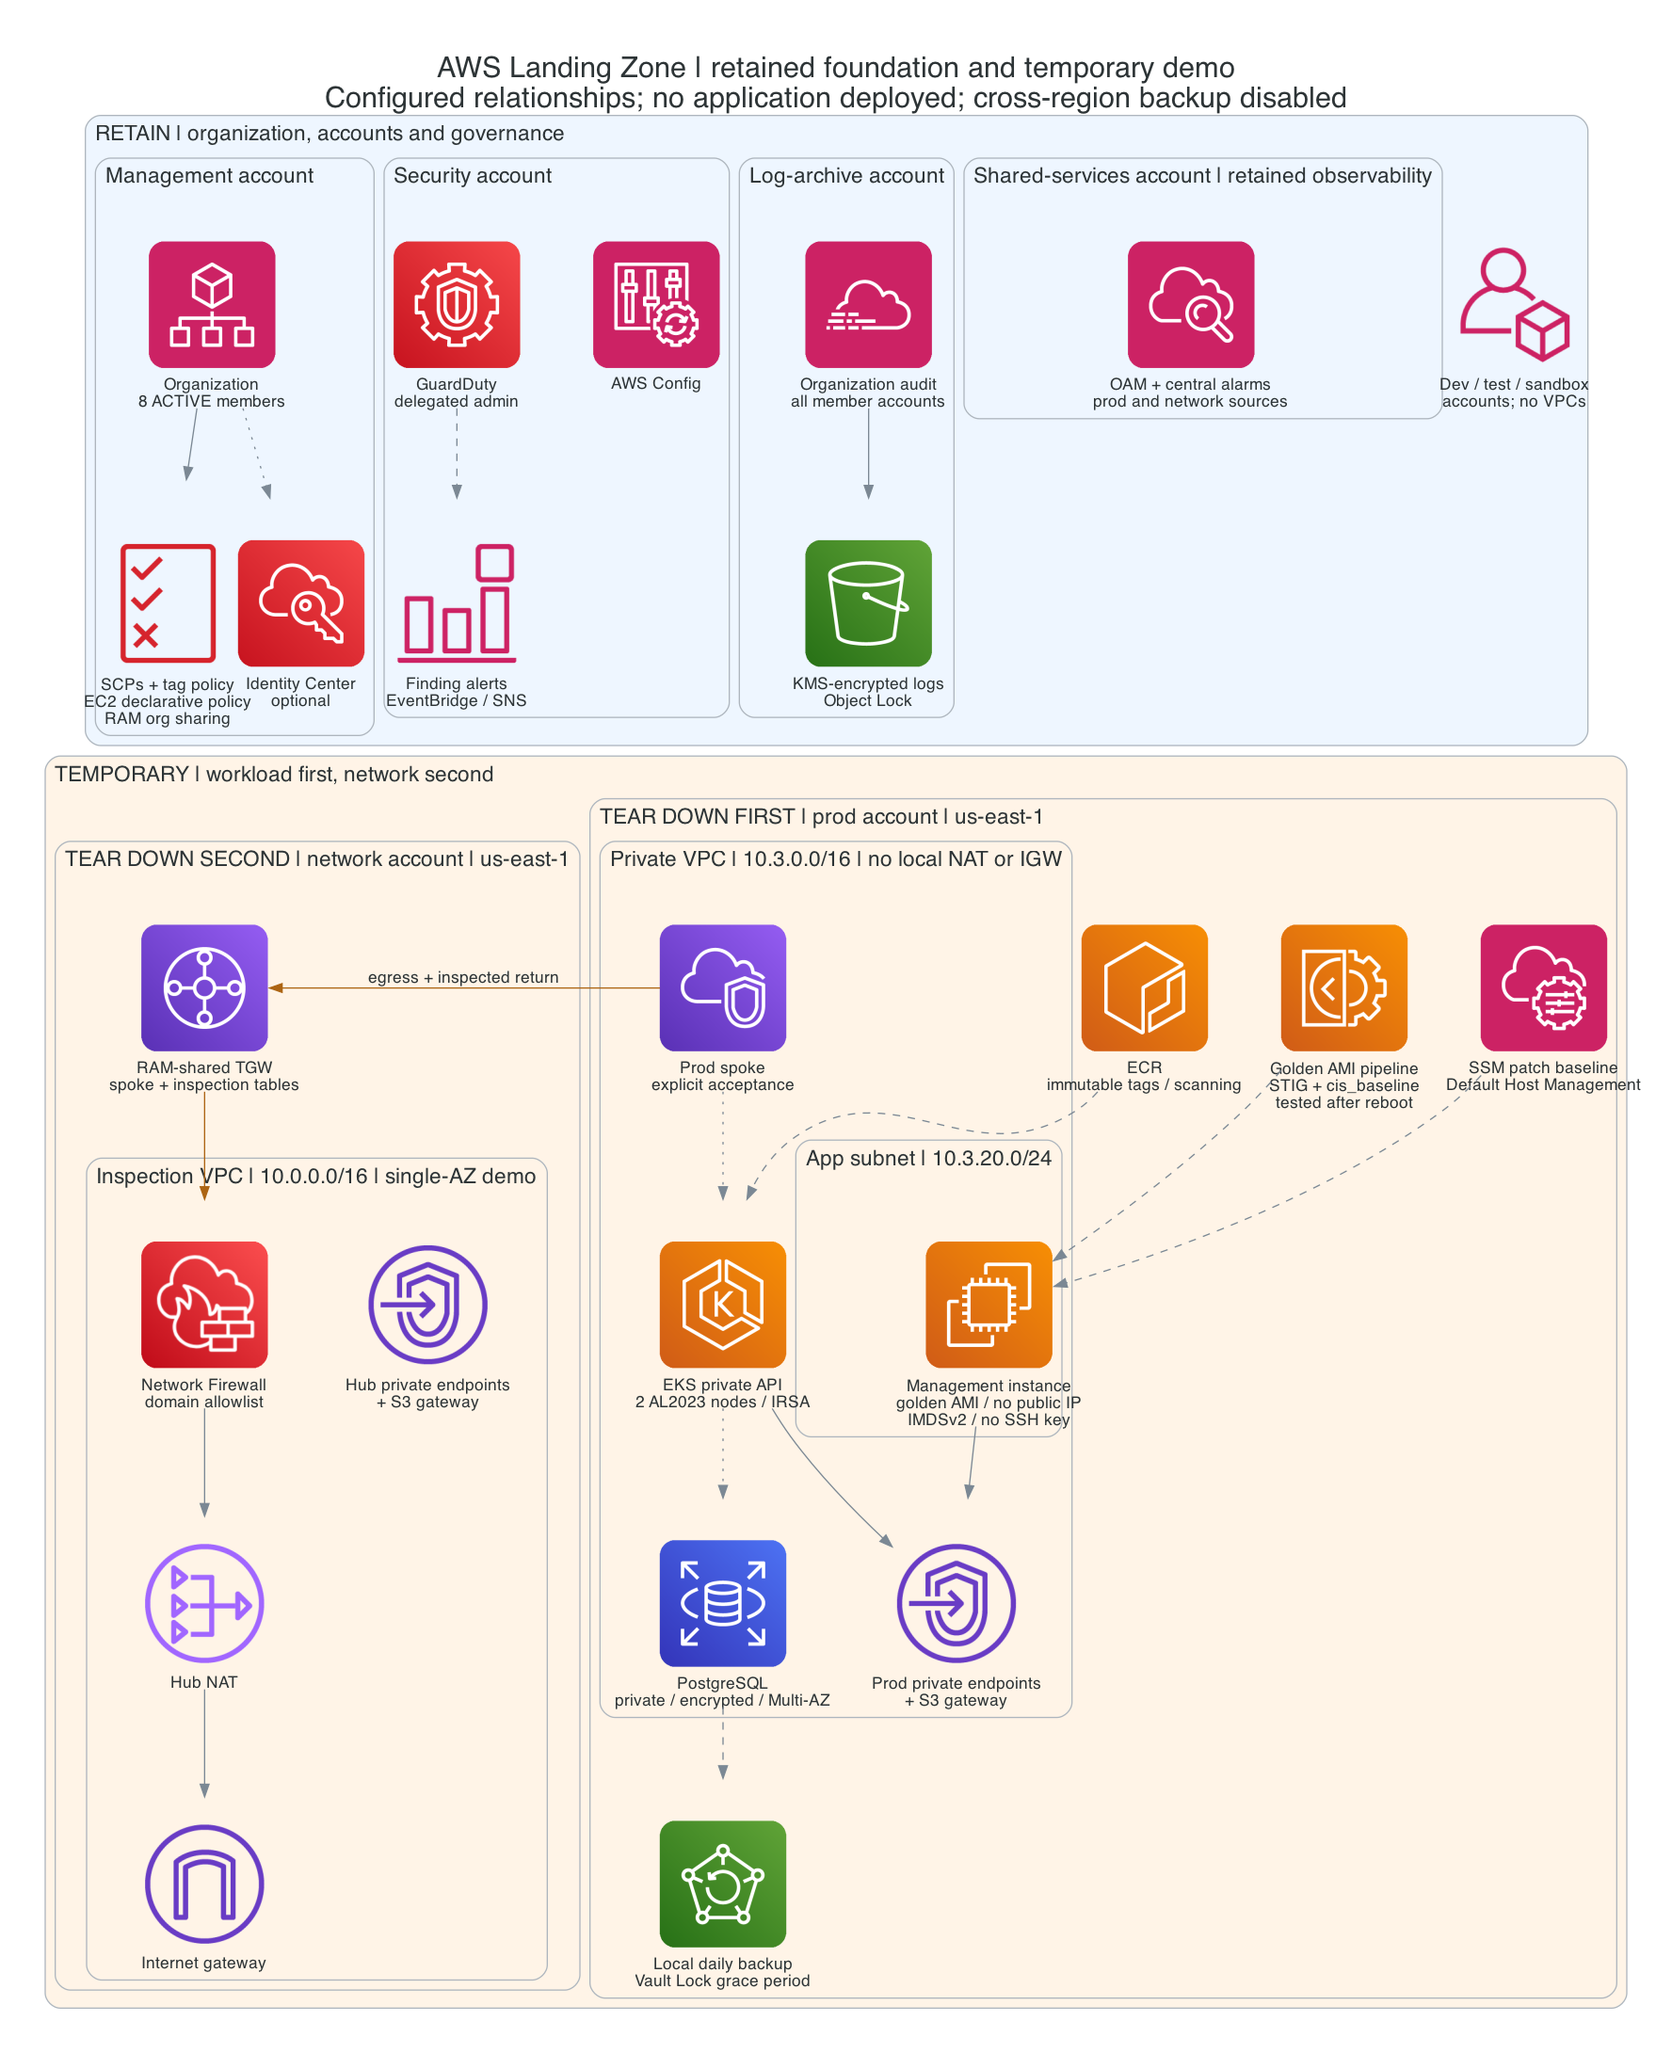
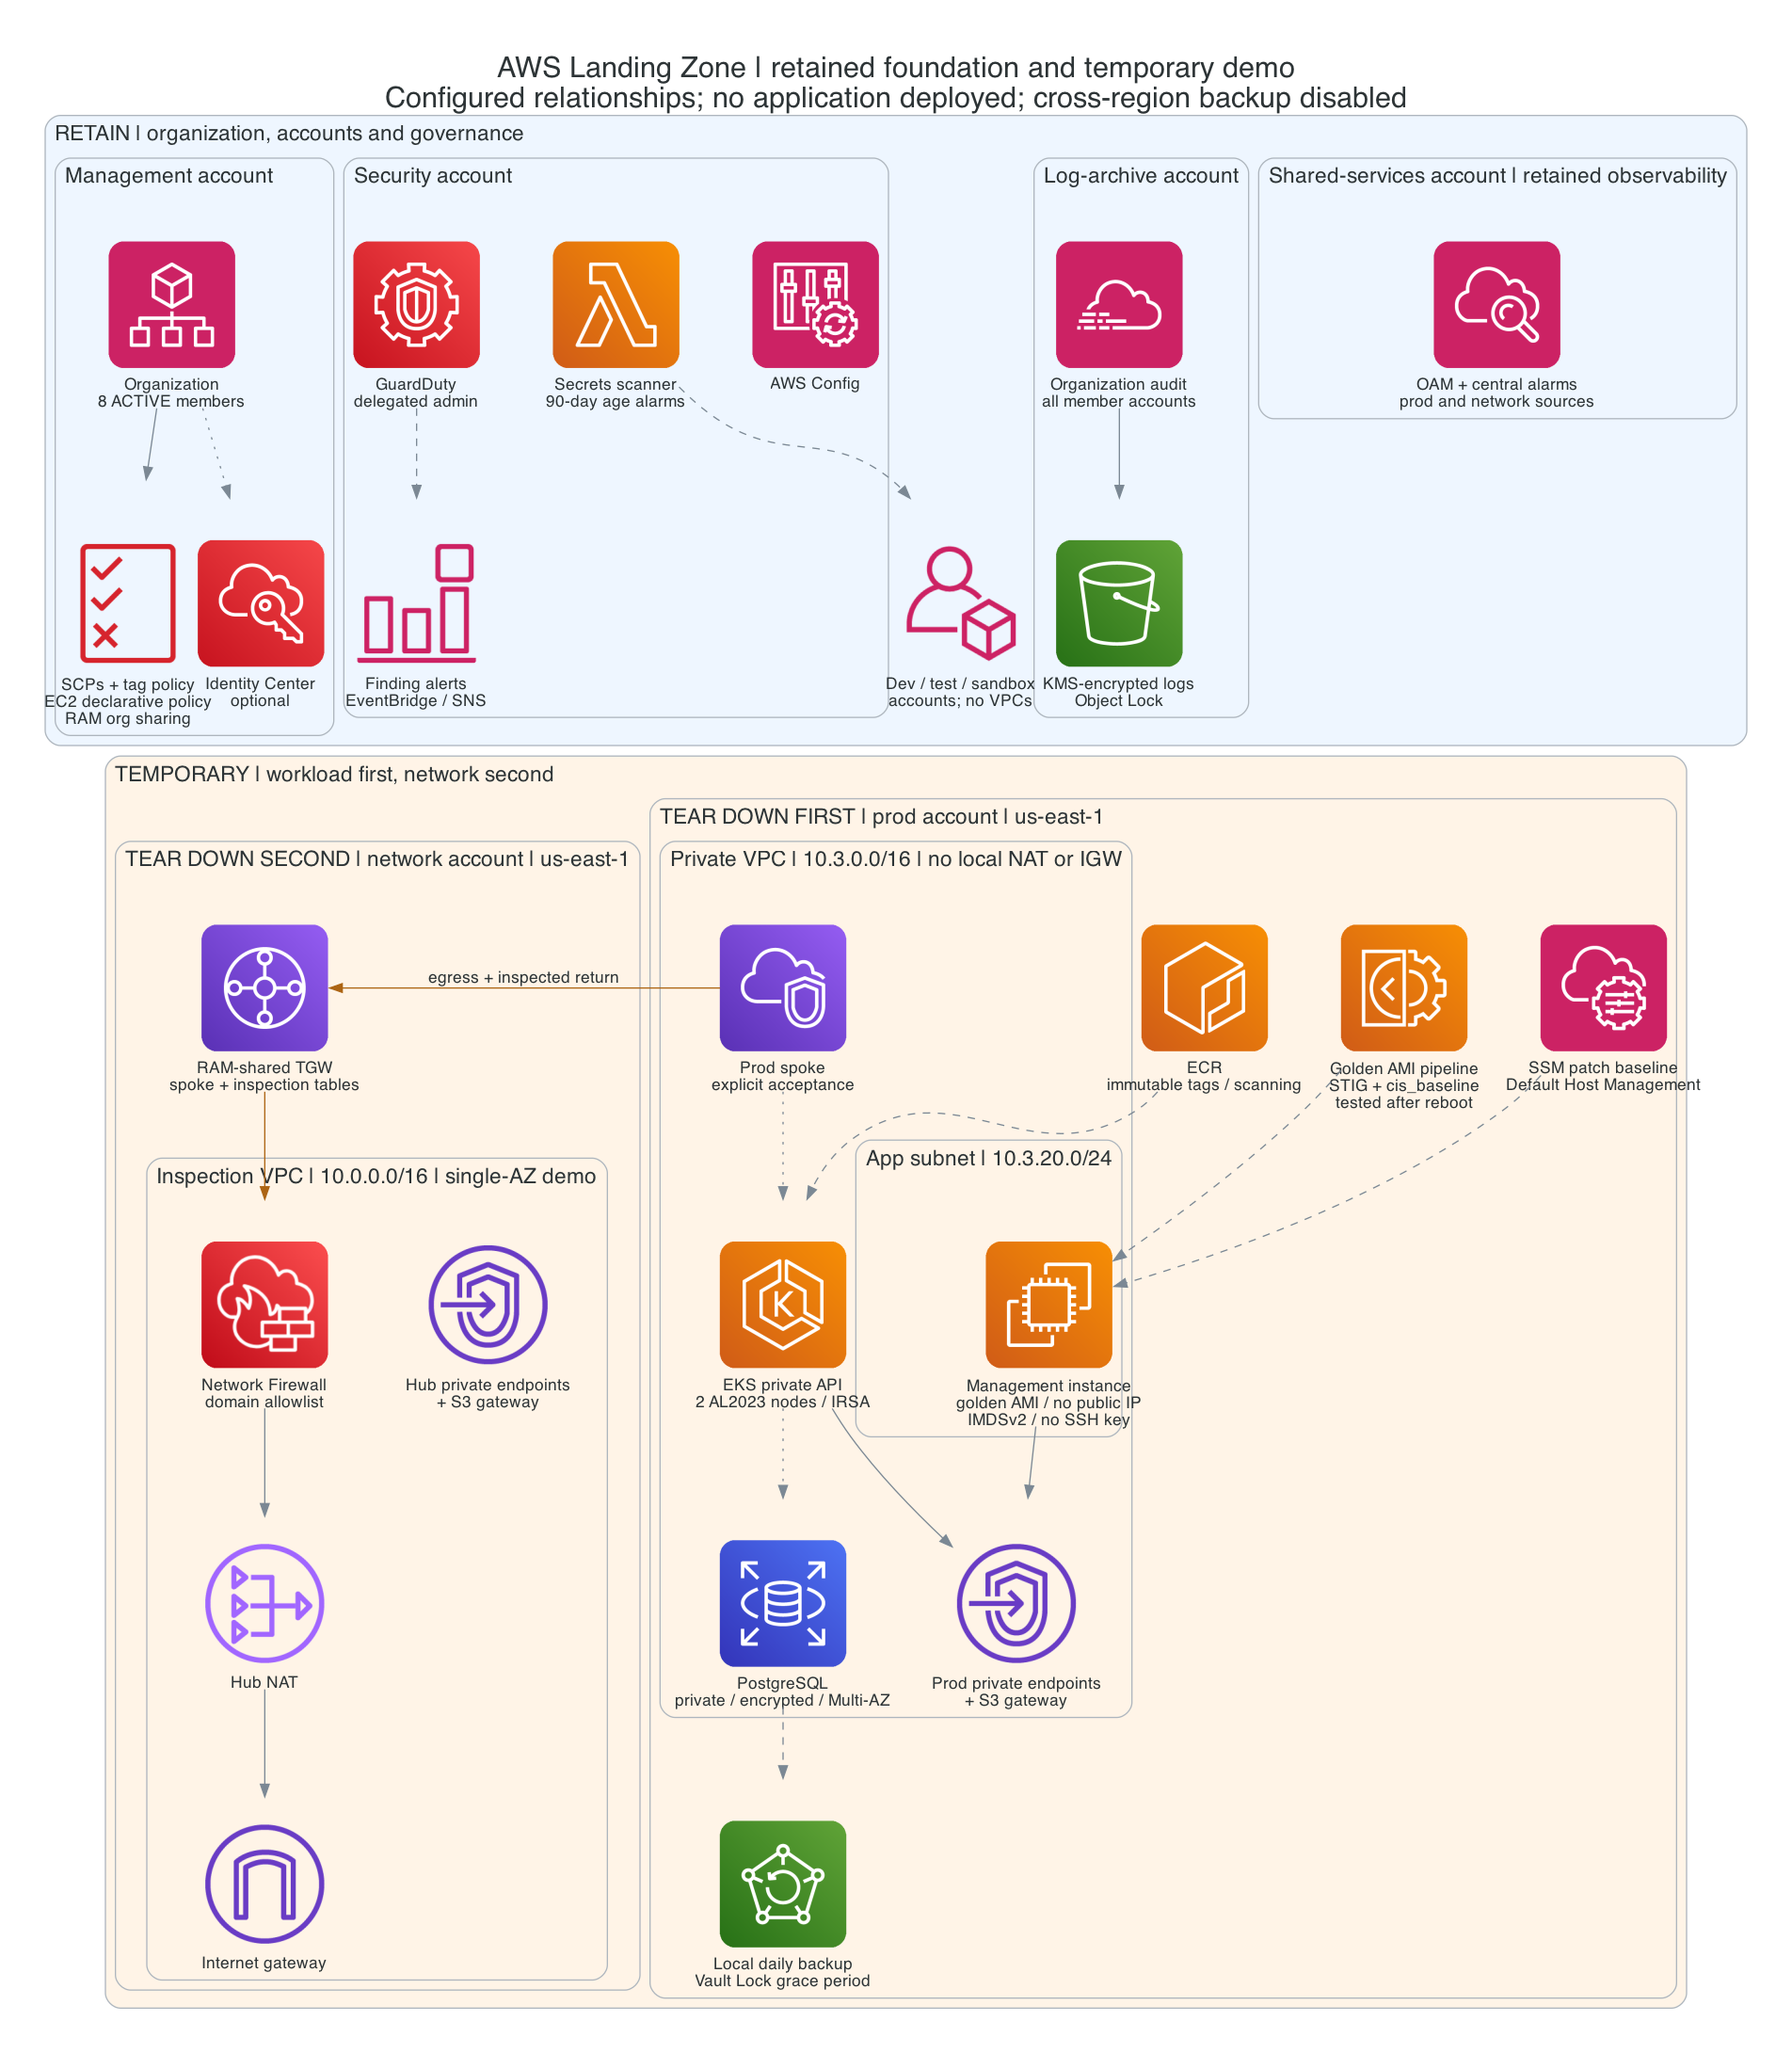
Record the live secrets scanner proof
The scanner runs in the security account and swept all eight accounts
(CloudTrail shows its AssumeRole into each of the seven targets). A
sandbox positive control was inventoried and flagged, the age alarm went
OK to ALARM and published to its encrypted topic, and the policy simulator
shows secret reads explicitly denied. The diagram adds the scanner, and
the completion and cleanup docs now leave only old provider key retirement
open.

diff --git a/docs/diagram.py b/docs/diagram.py
@@ -8,7 +8,7 @@ The output path is relative to this source file, independent of the working dire
 from pathlib import Path
 
 from diagrams import Cluster, Diagram, Edge
-from diagrams.aws.compute import EC2, EKS, EC2ContainerRegistry, EC2ImageBuilder
+from diagrams.aws.compute import EC2, EKS, EC2ContainerRegistry, EC2ImageBuilder, Lambda
 from diagrams.aws.database import RDS
 from diagrams.aws.management import (
     Cloudtrail,
@@ -49,6 +49,7 @@ with Diagram(
             config = Config("AWS Config")
             findings = CloudwatchEventEventBased("Finding alerts\nEventBridge / SNS")
             guardduty >> Edge(style="dashed") >> findings
+            scanner = Lambda("Secrets scanner\n90-day age alarms")
 
         with Cluster("Log-archive account", graph_attr=RETAINED):
             trail = Cloudtrail("Organization audit\nall member accounts")
@@ -59,6 +60,7 @@ with Diagram(
             monitoring = Cloudwatch("OAM + central alarms\nprod and network sources")
 
         other_accounts = OrganizationsAccount("Dev / test / sandbox\naccounts; no VPCs")
+        scanner >> Edge(style="dashed", label="metadata-only\nscan roles, all members") >> other_accounts
 
     with Cluster("TEMPORARY | workload first, network second", graph_attr=TEMPORARY):
         with Cluster("TEAR DOWN SECOND | network account | us-east-1", graph_attr=TEMPORARY):

diff --git a/docs/secrets-lifecycle.md b/docs/secrets-lifecycle.md
@@ -8,7 +8,8 @@ management: management is exempt from SCPs and should hold only org-level
 resources. Account ids come from the persistent `accounts/` state; none are
 hardcoded.
 
-Status: code complete, not yet applied. The live proof below is pending.
+Status: live in the security account and proven 2026-10-06 (results below).
+The scanner is a standing detective control, not an hourly layer.
 
 ## Access model
 
@@ -46,9 +47,12 @@ attention; a second fires after two daily periods without a completed scan, so
 a failed cross-account sweep (an AccessDenied, for example) can never look
 healthy. Both publish ALARM and OK to a customer-key-encrypted SNS topic.
 
-Incremental standing cost is about $1.80/month (one KMS key, two custom
-metrics, two alarms), plus the scanner's normal Lambda, DynamoDB and S3 usage.
-The target roles themselves are $0. No hourly compute or networking is added.
+Standing cost is a few dollars a month: about $1.80 for one KMS key, two custom
+metrics and two alarms, plus the analyzer's single-account trail. The org trail
+already records the security account's management events, so that trail is a
+second, billed copy; it is the variable part of the bill. Lambda, DynamoDB and
+S3 usage are negligible on a daily schedule. The target roles are $0. No hourly
+compute or networking is added.
 
 ## Operator steps (saved plans only)
 
@@ -73,9 +77,64 @@ terraform -chdir=../aws-secrets-lifecycle/terraform plan \
 terraform -chdir=../aws-secrets-lifecycle/terraform apply tfplan
 ```
 
-## Live proof
+## Live proof (2026-10-06)
 
-Run one synchronous scan, then read the logs, metrics and alarms:
+Every check below ran inside the security account, through a role session that
+fails closed if the assume does not land there. The scripted invoke is
+synchronous and runs the scanner only.
+
+Baseline scan, all eight accounts:
+
+```text
+invoke   StatusCode 200, no FunctionError
+         {"scan_id":"20261006T170022Z","secrets_scanned":0,"wall_clock_seconds":1.23}
+EMF      {"ScanCompleted":1,"Scanner":"secops-scanner","SecretsNeedingAttention":0,...}
+assumes  CloudTrail AssumeRole into secops-scan-target-role: 7/7 target accounts
+```
+
+Zero is the true count: no account holds a Secrets Manager secret, a
+SecureString parameter or an IAM access key. Prod holds one AWS-managed
+Inspector StringList parameter, which the scanner skips by design. A failed
+assume or sweep returns an error and fails the invocation, so a clean exit plus
+seven AssumeRole events proves every target was swept.
+
+Positive control: an empty secret shell created in sandbox, scanned, then
+force-deleted by the same script:
+
+```text
+invoke     {"scan_id":"20261006T170411Z","secrets_scanned":1}
+inventory  account_id 231161110714 (sandbox), kind secretsmanager,
+           name secops-positive-control, rotation_enabled False
+EMF        {"ScanCompleted":1,"SecretsNeedingAttention":1,...}
+metric     SecretsNeedingAttention 17:00 0.0, 17:04 1.0
+```
+
+The age alarm then fired from that single datapoint, about a minute after the
+scan:
+
+```text
+16:59:05  StateUpdate  INSUFFICIENT_DATA -> OK, SNS action executed
+17:05:05  StateUpdate  OK -> ALARM
+17:05:05  Action       Successfully executed action ...:secops-secret-alerts
+SNS       NumberOfMessagesPublished 1 (16:55 window), 1 (17:05 window)
+```
+
+It returns to OK after the next scheduled scan reports zero.
+
+Denial, IAM policy simulator against the deployed target roles (prod and
+security):
+
+```text
+allowed       ListSecrets, DescribeSecret, ssm:DescribeParameters, iam:ListUsers
+explicitDeny  GetSecretValue, BatchGetSecretValue, ssm:GetParameter,
+              ssm:GetParametersByPath, kms:Decrypt (prod)
+```
+
+The dashboard bucket has no bucket policy and all four public access block
+settings on.
+
+Unit tests cover the exact 90-day boundary. To re-run, invoke the scanner from
+a security-account session:
 
 ```bash
 aws lambda invoke --region us-east-1 --function-name secops-scanner \
@@ -83,19 +142,10 @@ aws lambda invoke --region us-east-1 --function-name secops-scanner \
   --payload '{}' scan-result.json
 aws logs filter-log-events --region us-east-1 \
   --log-group-name /aws/lambda/secops-scanner --filter-pattern '"SecOps/Secrets"'
-aws cloudwatch list-metrics --region us-east-1 --namespace SecOps/Secrets
 aws cloudwatch describe-alarms --region us-east-1 \
   --alarm-names secops-secret-age secops-secret-scan-missing \
   --query 'MetricAlarms[].{Name:AlarmName,State:StateValue,Reason:StateReason}'
 ```
-
-Pass criteria: no `FunctionError`, the EMF event shows `ScanCompleted: 1`, and
-the inventory holds rows from all eight member accounts. A denial proof assumes
-a target role and confirms `GetSecretValue` returns AccessDenied. Daily alarms
-are not immediate smoke-test signals; allow ingestion and evaluation time.
-
-Unit tests in the scanner cover the exact 90-day boundary. Disposable empty and
-renewed secrets can verify classification live; delete them afterward.
 
 ## Teardown
 

diff --git a/docs/completion.md b/docs/completion.md
@@ -4,8 +4,7 @@ The completion scope is the persistent organization, accounts and guardrails,
 base governance, observability, shared inspection network, and the private EKS
 and Multi-AZ PostgreSQL reference workload. LLM gateway integration is cancelled.
 No provider keys, container publication, Fargate service, or provider demo is
-required to finish this infrastructure scope. The standalone gateway checkout
-and Phase B changes remain preserved for separate work.
+required to finish this infrastructure scope.
 
 ## Verified infrastructure
 
@@ -20,8 +19,9 @@ organization onboarding remains enabled.
 This proves infrastructure metadata and routing configuration. It does not
 claim forced RDS failover timing, a deployed application, or an end-to-end
 firewall traffic test. Cross-region backup is disabled until a destination region
-is approved through governance. Existing Phase B scanner live proof and legacy
-secret-history/key cleanup remain pending; they are not represented as completed.
+is approved through governance. The secrets scanner live proof is complete (see
+[secrets-lifecycle.md](secrets-lifecycle.md)); retiring the old gateway provider
+keys remains pending and is not represented as completed.
 
 Gateway-specific provider domains, output contracts and the DynamoDB endpoint
 were removed from configuration. Generic HOME_NET, TGW routing, accepter fixes,
@@ -93,11 +93,11 @@ under `/private/tmp` must be recreated if unavailable.
 Format, Terraform validation and local static security checks passed during
 closeout; subsequent documentation diff and link checks also passed. Review the
 final diff before publication. Commit, push and merge only when requested.
-Preserve sibling Phase A/B work. Document deferred features and proof limits,
+Document deferred features and proof limits,
 update the private handoff, and check billing after Cost Explorer data catches up.
 Legacy gateway state-history cleanup is complete: 20 obsolete versions were
 deleted and zero remain, with the latest clean state retained. Old-key retirement
-and scanner live proof remain independent work; see
+remains independent work; see
 [the separate cleanup runbook](security-cleanup.md).
 
 For future demos, export private account/network metadata using

diff --git a/README.md b/README.md
@@ -57,17 +57,20 @@ central alarms remain present.
 
 The demonstrated hourly layers have been removed. Retained baseline services,
 KMS deletion windows and storage can still generate charges; check billing after
-reporting catches up. Review the final source diff and preserve sibling Phase A/B
-work. Follow the [completion runbook](docs/completion.md) for verification and
+reporting catches up. Follow the [completion runbook](docs/completion.md) for verification and
 future demo lifecycle guidance. Commit, push and merge only when requested.
 
-LLM gateway integration is cancelled and was never deployed. Its checkout and
-Phase B work remain preserved separately. Provider domains and gateway output
+LLM gateway integration is cancelled and was never deployed. Provider domains and gateway output
 contracts have been removed from configuration. Network allowlist edits were not
 applied before the hub was removed; workload integration resources have also
 been removed. Legacy state-history cleanup is complete: 20 obsolete gateway
-versions were deleted and the latest clean state retained. Phase B scanner live
-verification and old-key retirement remain separate unfinished work.
+versions were deleted and the latest clean state retained. Retiring the old
+gateway provider keys remains separate unfinished work.
+
+The secrets scanner is live in the security account (a few dollars a month): seven
+metadata-only target roles plus its own, a cross-account scan that assumed into
+every member account, and a positive control where an empty secret created in
+sandbox was inventoried and flagged. See [docs/secrets-lifecycle.md](docs/secrets-lifecycle.md).
 
 ## Account and policy boundaries
 

diff --git a/docs/security-cleanup.md b/docs/security-cleanup.md
@@ -3,7 +3,6 @@
 The landing-zone network and reference workload have been torn down and verified.
 LLM gateway integration is cancelled. No gateway deployment, replacement provider
 keys, provider admin setup or scanner deployment is required for this cleanup.
-Preserve the prepared Phase B source work in the sibling checkouts.
 
 ## Retired gateway state history
 
@@ -52,7 +51,7 @@ git objects, symlinks, large files and unrelated projects. Preserve source chang
 review only obsolete credential-bearing artifacts for deletion, with separate
 operator authorization. Never paste credential values into chat or commit them.
 
-The prepared metadata roles and ninety-day scanner monitoring remain unapplied
-and unproven live. They are separate future security integration work, not a
-required deployment for retiring old state snapshots. No commit, push or merge
-was performed during cleanup.
+The metadata roles and ninety-day scanner monitoring are now live and proven;
+see [secrets-lifecycle.md](secrets-lifecycle.md). Old provider key retirement is
+the remaining item: delete the keys at each provider, then confirm an
+authenticated read returns 401.
